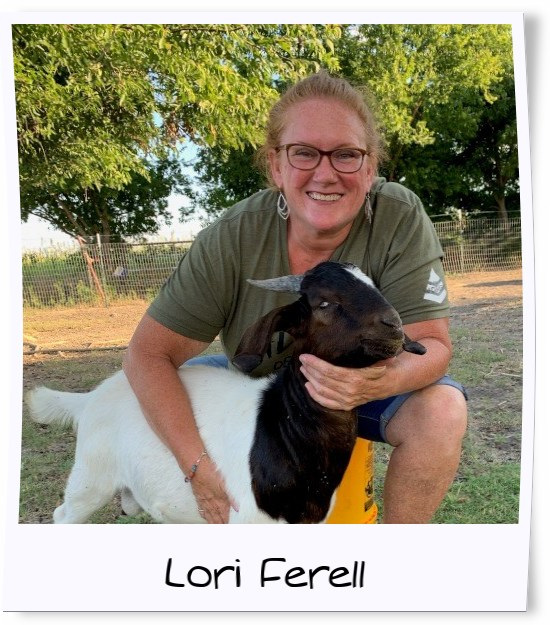
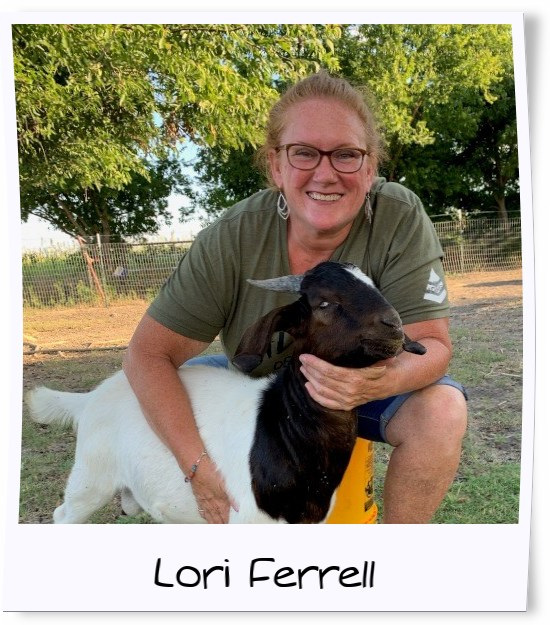
Typooos

Changed region(s): [[0.2782, 0.8816, 0.68, 0.9424]]

diff --git a/src/index.js b/src/index.js
@@ -197,7 +197,7 @@ const About = () => {
             <Box gridArea="text" pad="medium" background="light-2" round={true}>
               <Heading level="1">About</Heading>
               <Paragraph fill margin="small">
-              Day Six Farm is a loving home for 32 all natural, well-fed goats and 12 adorable mallard ducks. Lori Ferell opened her farm with 15 goats in 2018 and has since doubled her herd thanks to her incredible caring nature and wonderful heart. Spending most of her life as a city girl, Lori had dreamed of having a farm and raising animals since childhood. At first sight of her new home, an immediate feeling of peace came over Lori’s life; there was something ever present, even holy in the precious lives as they scratched their horns on trees and frolicked in the grass. The name was chosen to give thanks and honor back to God.</Paragraph>
+              Day Six Farm is a loving home for 32 all natural, well-fed goats and 12 adorable mallard ducks. Lori Ferrell opened her farm with 15 goats in 2018 and has since doubled her herd thanks to her incredible caring nature and wonderful heart. Spending most of her life as a city girl, Lori had dreamed of having a farm and raising animals since childhood. At first sight of her new home, an immediate feeling of peace came over Lori’s life; there was something ever present, even holy in the precious lives as they scratched their horns on trees and frolicked in the grass. The name was chosen to give thanks and honor back to God.</Paragraph>
             </Box>
             <Box gridArea="bible" background="light-2" pad="small" alignSelf="center">
               <Heading level="5" alignSelf="center"><b><a target="_blank" href="https://www.biblegateway.com/passage/?search=Genesis%201&version=KJV" rel="noopener noreferrer">Genesis 1:24-25</a></b></Heading>
@@ -261,7 +261,7 @@ const About = () => {
               </Box>
             </Box>
             <Accordion pad="medium">
-              <AccordionPanel label="My Name is Lori Ferell" width="xlarge" onClick={() => playTrack(1)}>
+              <AccordionPanel label="My Name is Lori Ferrell" width="xlarge" onClick={() => playTrack(1)}>
                 <Box pad="medium" background="light-2" direction="row-responsive">
                   <Paragraph>I grew up in Richardson, TX. While my relatives lived in the country, I embraced the city life for years. I was a guidance counselor for a long time, and I developed a passion for service. Helping others, watching life grow. <br /> <br />
                   In April 2018 I got my first fifteen goats! Since then I have learned to love all life that I come across. Watching them grow up, their little personality quirks coming about, it's a miracle to witness. </Paragraph>
@@ -269,9 +269,9 @@ const About = () => {
                 </Box>
               </AccordionPanel>
               <AccordionPanel label="First Steps" width="xlarge" onClick={() => playTrack(2)}>
-                <Box pad="medium" background="light-2" direction="row-reverse">
+                <Box pad="medium" background="light-2" direction="row-reverse" gap="medium">
                   <Paragraph align="start">"It was scary but wonderful... I had found this new source of peace and joy. It was scary but wonderful... I had found this new source of peace and joy. It was scary but wonderful... I had found this new source of peace and joy."</Paragraph>
-                  <Image fit="contain" src="https://raw.githubusercontent.com/dcruzships/goats/master/assets/img/goats3.png" />
+                  <Image fit="contain" width="250px" height="400px" src="https://raw.githubusercontent.com/dcruzships/goats/master/assets/img/goats3.png" />
                 </Box>
               </AccordionPanel>
               <AccordionPanel label="A Gift from God - Day Six Farm" width="xlarge" onClick={() => playTrack(3)}>
